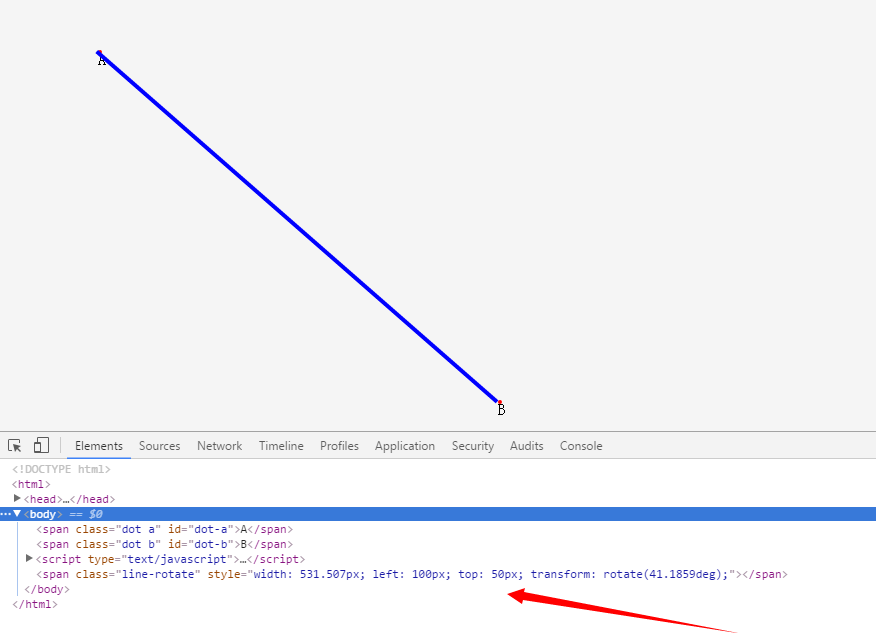
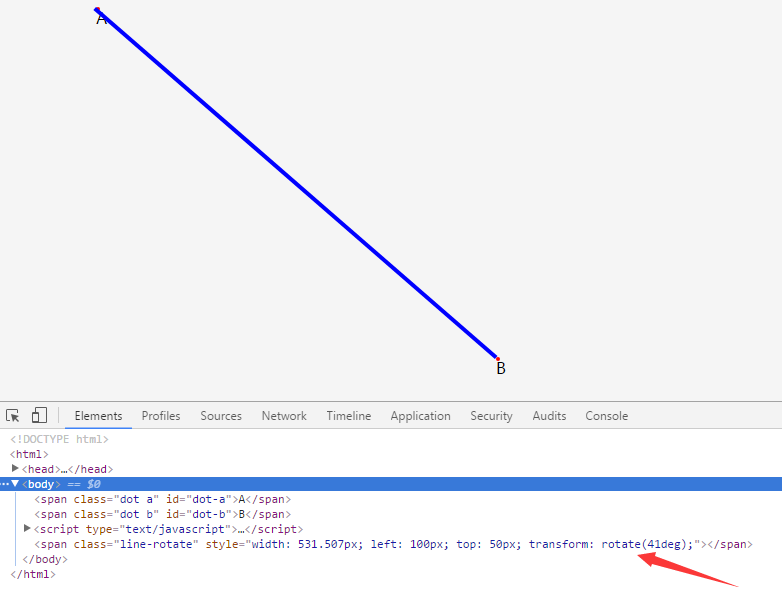
add get-angle-of-triangle

diff --git a/basis/04_linear-equation-with-one-unknown.html b/basis/04_linear-equation-with-one-unknown.html
@@ -58,15 +58,13 @@
     var ARect = A.getBoundingClientRect();
     var BRect = B.getBoundingClientRect();
 
-    //y = ax + b;
-    //a = (y2 - y1)/(x2 - x1);
-    
-    var a = (-BRect.top - (-ARect.top)) / (BRect.left - ARect.left);
-    var b = -ARect.top - a * ARect.left;
-
-
     //方法一：通过点画线
     var createLineByDot = function(){
+        //y = ax + b;
+        //a = (y2 - y1)/(x2 - x1);
+        var a = (-BRect.top - (-ARect.top)) / (BRect.left - ARect.left);
+        var b = -ARect.top - a * ARect.left;
+
         var i = ARect.left + ARect.width / 2;
         var fragment = document.createDocumentFragment();
 
@@ -91,16 +89,24 @@
         var line = document.createElement('span');
         var angle = getAngle(ARect.left, -ARect.top, BRect.left, -BRect.top);
 
+        angle = Math.abs(angle);
+
+        var rotateStyle = 'rotate(' + angle + 'deg)';
+
         line.className = 'line-rotate';
         line.style.width = dis + 'px';
         line.style.left = ARect.left + 'px';
         line.style.top = ARect.top + 'px';
-        line.style.transform = 'rotate(' + Math.abs(angle) + 'deg)';
+        line.style.webkitTransform = rotateStyle;
+        line.style.MozTransform = rotateStyle;
+        line.style.msTransform = rotateStyle;
+        line.style.OTransform = rotateStyle;
+        line.style.transform = rotateStyle;
 
         document.body.appendChild(line);
     };
 
-    //获取两点共同直线的角度
+    //求直角三角形的角度
     function getAngle(x1, y1, x2, y2) {
         var disX = x2 - x1;
         var disY = y2 - y1;
@@ -110,17 +116,18 @@
         var cos = disX / len;
         var radian = Math.acos(cos);
 
-        var angle = 180 / (Math.PI / radian);
+        var angle = radian * 180 / Math.PI;
 
         if (disY < 0) {
             angle = -angle;
         } else if ((disY == 0) && (disX < 0)) {
             angle = 180;
         }
-        return angle;
+        
+        return Math.round(angle)
     };
 
-    //run 执行
+    //执行
     // createLineByDot();
     createLineByRotate();
     </script>

diff --git a/example/03_get-angle-of-triangle.md b/example/03_get-angle-of-triangle.md
@@ -1,0 +1,69 @@
+# 求直角三角形的角度
+在数学中我们经常遇见求莫个三角形的角度等问题，这篇文章来聊聊求直角三角形的角度。数学中有一个东西叫[三角函数](https://zh.wikipedia.org/wiki/%E4%B8%89%E8%A7%92%E5%87%BD%E6%95%B0)，而与之对应的一个叫[反三角函数](https://zh.wikipedia.org/wiki/%E5%8F%8D%E4%B8%89%E8%A7%92%E5%87%BD%E6%95%B0)。反三角函数是三角函数的反函数。
+
+常见的三角函数包括正弦函数（sin）、余弦函数（cos）和正切函数（tan），与其对应的反三角函数是反正弦函数（arcsin）、反余弦函数（arccos）和反正切函数（arctan）。这三类算是最常见的了，当然还有其它的余切、正割啊什么的。这里面需要计算直角三角形的角度，例如下面这张图：
+
+![求直角三角形的角度](../assets/img/example_02_3.png)
+
+我们需要计算角 A 的角度是多少。JavaScript中 `Math.asin`是求反正弦值，`Math.acos`是求反余弦值，，`Math.atan`是求反正切值。
+
+| 反函数 |    名称    |  弧度值范围  |
+|:------|:----------|:--------------------:|
+| asin   | 反正弦值   | -PI/2 到 PI/2 |
+| acos   | 反余弦值   |   0 到 PI   |
+| atan   | 反正切值   | -PI/2 到 PI/2  |
+
+它们返回的是一个弧度值，而既然我们知道了弧度值那么角度是不是就求出来了呢，弧度转角度。都是知识点啊！
+
+弧度变角度的公式为：180 / π × 弧度，那么在网页中（将网页左上角看成 (0, 0)原点的平面直接坐标系）我们设 A、B 两点的坐标信息为：
+```css
+.A{
+    left: 100px;
+    top: 50px;
+}
+.B{
+    left: 500px;
+    top: 400px;
+}
+```
+看成是坐标，那么整张网页就位于直接坐标系中的第四象限，那么 AB 两点用坐标表示为：A(100, -50)、B(500, -400)。下面好戏上场！
+
+要想求得角 A 的度数，我们可以使用三角函数的定理。如图，那么我们根据三角函数的概念来推理：
+```javascript
+var cosA = b / c;
+var A = 0;//点 A 对应的弧度
+
+/*
+A = arccos( consA )
+
+A = arccos( b / c )
+*/
+
+A = Math.acos( b / c );
+
+//弧度转角度 -> 180 / π × 弧度
+var angleA = 180 / Math.PI * A;
+
+angleA = 180 / Math.PI * Math.acos( b / c );
+```
+上面 a、b、c 分别表示的是三角形的三边，接下来不难看出，要想计算角 A 的度数，先得计算斜边 c 和临边 b 的长度。b 的长度很好求，就是 AB 两点的 y 坐标值（top）相减就得到了。而我们已经知道了 AB 两点的坐标，也就能根据两点坐标公式求斜边 c 的长度。求两点距离坐标公式为：<img align="center" src="../assets/img/example_02_1.png">，最后我们得到公式：
+
+![求直角三角形的角度](../assets/img/example_03_1.png)
+
+```javascript
+var x1 = 100;
+var y1 = -50;
+var x2 = 500;
+var y2 = -400;
+
+var b = Math.abs(y1 - y2);//求b 边长度
+var c = Math.sqrt(Math.pow(x1 - x2, 2) + Math.pow(y1 - y2, 2));//求c 边长度
+
+var radian = Math.acos(b / c);//求弧度
+
+var angleA = 180 / Math.PI * radian;//弧度转角度
+
+angleA = Math.round(angleA);//49
+```
+
+这样角 A 的度数就求出来了~ 大功告成！上面是用余弦函数来计算的，当然也可以用正弦函数来计算了。这里之所以用余弦函数，那是因为角 A 的两条边是 b 和 c，这样计算起来更加方便。有兴趣的可以研究用正弦函数 sinA = a / c，来试试。

diff --git a/basis/04_linear-equation-with-one-unknown.md b/basis/04_linear-equation-with-one-unknown.md
@@ -36,29 +36,31 @@ var B = document.getElementById('dot-b');
 var ARect = A.getBoundingClientRect();
 var BRect = B.getBoundingClientRect();
 
-//y = ax + b;
-//a = (y2 - y1)/(x2 - x1);
+var createLineByDot = function(){
+    //y = ax + b;
+    //a = (y2 - y1)/(x2 - x1);
+    var a = (-BRect.top - (-ARect.top)) / (BRect.left - ARect.left);
+    var b = -ARect.top - a * ARect.left;
 
-var a = (-BRect.top - (-ARect.top)) / (BRect.left - ARect.left);
-var b = -ARect.top - a * ARect.left;
+    var i = ARect.left + ARect.width / 2;
+    var fragment = document.createDocumentFragment();
 
+    for(; i < BRect.left; i++){
+        var dot = document.createElement('span');
+        var y = Math.abs(a * i + b);
 
-//开始画线
-var i = ARect.left + ARect.width / 2;
-var fragment = document.createDocumentFragment();
+        dot.className = 'dot line';
+        dot.style.left = i + 'px';
+        dot.style.top = y + 'px';
 
-for(; i < BRect.left; i++){
-    var dot = document.createElement('span');
-    var y = Math.abs(a * i + b);
+        fragment.appendChild(dot);
+    }
 
-    dot.className = 'dot line';
-    dot.style.left = i + 'px';
-    dot.style.top = y + 'px';
+    document.body.appendChild(fragment);
+};
 
-    fragment.appendChild(dot);
-}
-
-document.body.appendChild(fragment);
+//执行
+createLineByDot();
 ```
 最终的效果如下图：
 
@@ -85,14 +87,14 @@ span{
 * 知识点
     * `transform-origin`改变元素的旋转基点位置
     * 求两点之间的距离 [[参考](../example/02_get-length-between-two-points.md)]
-    * 求两直线的夹角
+    * 求直角三角形的角度 [[参考](../example/03_get-angle-of-triangle.md)]
     * 三角函数的运用
     * 弧度与角度的换算
 
 都是以前的数学知识点啊！有点懵有木有？:scream:
 
 ```javascript
-//获取两点共同直线的角度
+//求直角三角形的角度
 function getAngle(x1, y1, x2, y2) {
     var disX = x2 - x1;
     var disY = y2 - y1;
@@ -102,14 +104,15 @@ function getAngle(x1, y1, x2, y2) {
     var cos = disX / len;
     var radian = Math.acos(cos);
 
-    var angle = 180 / (Math.PI / radian);
+    var angle = radian * 180 / Math.PI;
 
     if (disY < 0) {
         angle = -angle;
     } else if ((disY == 0) && (disX < 0)) {
         angle = 180;
     }
-    return angle;
+
+    return Math.round(angle)
 };
 ```
 

diff --git a/README.md b/README.md
@@ -9,3 +9,4 @@
 * 场景案例
     * [九九乘法表](example/01_multiplication-table.md)
     * [求两点之间的距离](example/02_get-length-between-two-points.md)
+    * [求直角三角形的角度](example/03_get-angle-of-triangle.md)
